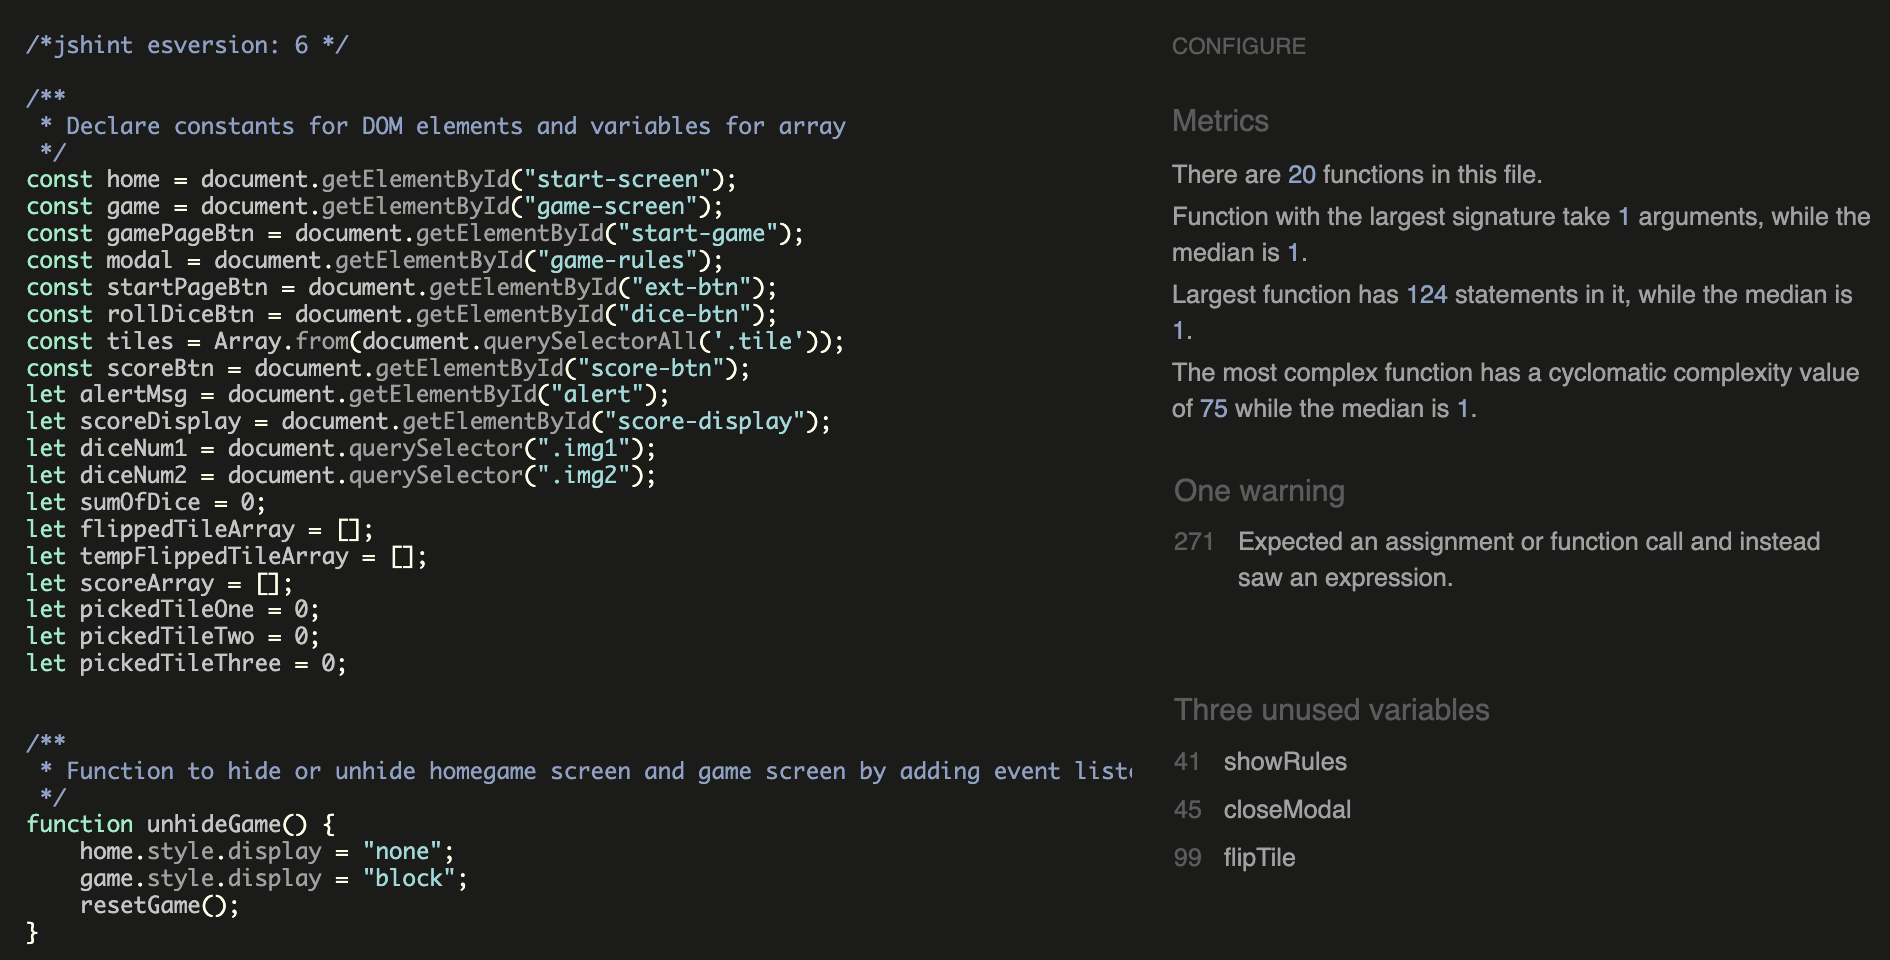
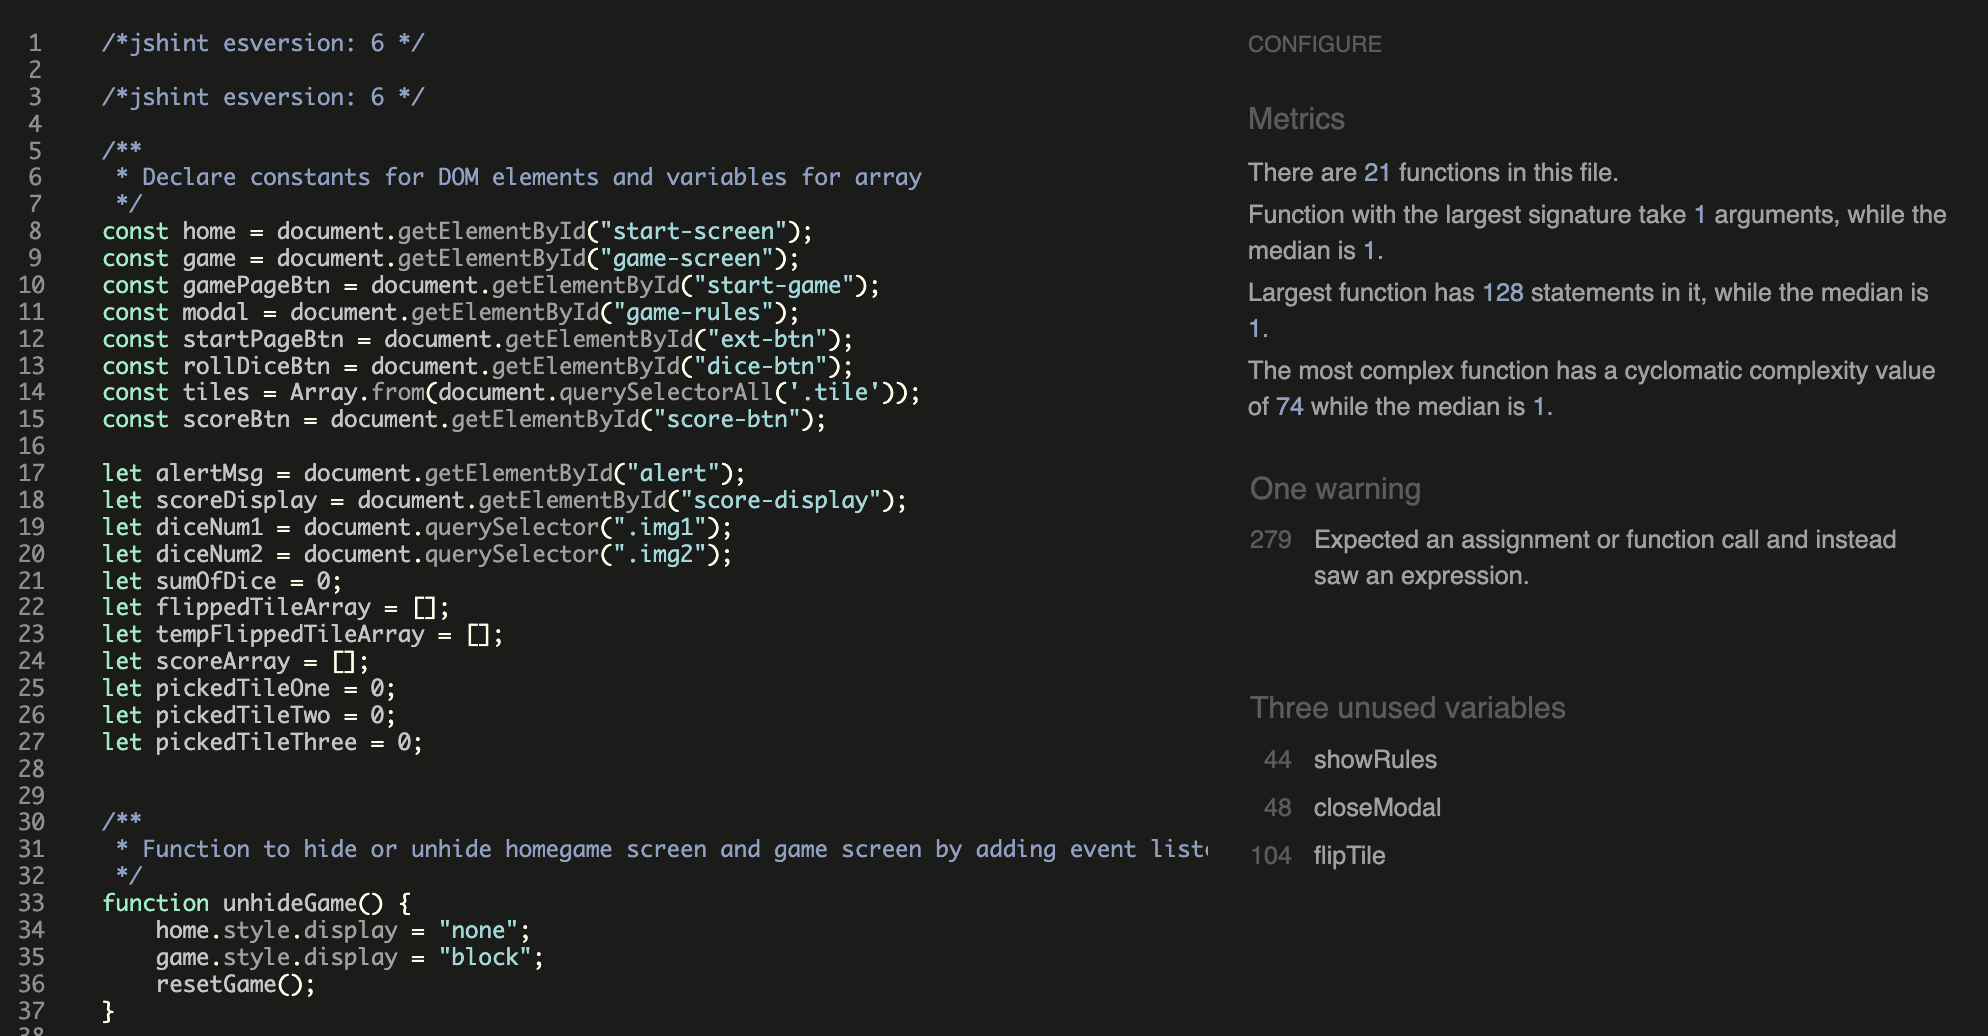
Update jshint validation result image

diff --git a/assets/js/script.js b/assets/js/script.js
@@ -1,5 +1,7 @@
 /*jshint esversion: 6 */
 
+/*jshint esversion: 6 */
+
 /**
  * Declare constants for DOM elements and variables for array
  */
@@ -11,6 +13,7 @@ const startPageBtn = document.getElementById("ext-btn");
 const rollDiceBtn = document.getElementById("dice-btn");
 const tiles = Array.from(document.querySelectorAll('.tile'));
 const scoreBtn = document.getElementById("score-btn");
+
 let alertMsg = document.getElementById("alert");
 let scoreDisplay = document.getElementById("score-display");
 let diceNum1 = document.querySelector(".img1");
@@ -84,6 +87,8 @@ function rollTheDice() {
 
         sumOfDice = randomNumber1 + randomNumber2;
 
+        toggleButtons(false);
+
         setAlertMessage('Now select a tile!');
         
         return sumOfDice;
@@ -99,26 +104,24 @@ function rollTheDice() {
 function flipTile(event) {
     let chosenTileValue = event;
     
-    if (sumOfDice == 0) {
-        chosenTileValue = 0;
-        return setAlertMessage("Please roll the dice!");
-    } else if (chosenTileValue > sumOfDice && tempFlippedTileArray.length === 0 && flippedTileArray.length > 7) {  
+    if (chosenTileValue > sumOfDice && tempFlippedTileArray.length === 0 && flippedTileArray.length > 7) {  
         calculateScore();
         tiles.forEach(tile => {
             tile.removeAttribute("onclick");
         });
+        toggleButtons(true);
         return setAlertMessage("Game Over!");
     } else if (chosenTileValue > sumOfDice && tempFlippedTileArray.length === 0) {  
         return setAlertMessage("Wrong flip!");
     } else if (chosenTileValue < sumOfDice && tempFlippedTileArray.length === 0 && flippedTileArray.length > 7) {
         pickedTileOne = tempFlippedTileArray[0];
-        //document.getElementById('tile' + event).style.backgroundColor = "brown";
-        //document.getElementById('tile' + event).style.color = "cornsilk";
-        setTileSelected();
+        document.getElementById('tile' + event).style.backgroundColor = "brown";
+        document.getElementById('tile' + event).style.color = "cornsilk";
         tiles.forEach(tile => {
             tile.removeAttribute("onclick");
         });
         calculateScore();
+        toggleButtons(true);
         return setAlertMessage("Game Over!");
     } else if (chosenTileValue < sumOfDice && tempFlippedTileArray.length === 0) {
         flippedTileArray.push(chosenTileValue); 
@@ -133,8 +136,8 @@ function flipTile(event) {
         scoreArray.push(sumOfDice);
         document.getElementById('tile' + event).style.visibility = "hidden";
         pickedTileOne = 0;
-        sumOfDice = 0;
         rollDiceBtn.addEventListener('click', rollTheDice, { once: true });
+        toggleButtons(true);
         return setAlertMessage("Great job!");
     } else if (chosenTileValue == sumOfDice && tempFlippedTileArray.length === 0 && flippedTileArray.length === 8)  {
         flippedTileArray.push(chosenTileValue);
@@ -142,7 +145,6 @@ function flipTile(event) {
         scoreArray.push(sumOfDice);
         document.getElementById('tile' + event).style.visibility = "hidden";
         pickedTileOne = 0;
-        sumOfDice = 0;
         rollDiceBtn.addEventListener('click', rollTheDice, { once: true });
         return setAlertMessage("Congratulation! You just shut the box!");
     } else if ((chosenTileValue + pickedTileOne) > sumOfDice && flippedTileArray.length > 4) {  
@@ -150,6 +152,7 @@ function flipTile(event) {
             tile.removeAttribute("onclick");
         });
         calculateScore();
+        toggleButtons(true);
         return setAlertMessage("Game Over!");
     } else if ((chosenTileValue + pickedTileOne) > sumOfDice) {  
         return setAlertMessage("Wrong flip!");
@@ -158,6 +161,7 @@ function flipTile(event) {
             tile.removeAttribute("onclick");
         });
         calculateScore();
+        toggleButtons(true);
         return setAlertMessage("Game Over!");
     } else if ((chosenTileValue + pickedTileOne) < sumOfDice && tempFlippedTileArray.length === 1 && chosenTileValue !== pickedTileOne) {  
         flippedTileArray.push(chosenTileValue);
@@ -173,8 +177,8 @@ function flipTile(event) {
         document.getElementById('tile' + event).style.visibility = "hidden";
         document.getElementById('tile' + pickedTileOne).style.visibility = "hidden";
         pickedTileOne = 0;
-        sumOfDice = 0;
         rollDiceBtn.addEventListener('click', rollTheDice, { once: true });
+        toggleButtons(true);
         return setAlertMessage("Great job!");
     } else if ((chosenTileValue + pickedTileOne) == sumOfDice && chosenTileValue !== pickedTileOne && flippedTileArray.length === 8) {
         flippedTileArray.push(chosenTileValue);
@@ -183,7 +187,6 @@ function flipTile(event) {
         document.getElementById('tile' + event).style.visibility = "hidden";
         document.getElementById('tile' + pickedTileOne).style.visibility = "hidden";
         pickedTileOne = 0;
-        sumOfDice = 0;
         rollDiceBtn.addEventListener('click', rollTheDice, { once: true });
         return setAlertMessage("Congratulation! You just shut the box!");
     } else if ((chosenTileValue + pickedTileOne + pickedTileTwo) > sumOfDice && tempFlippedTileArray.length === 2 && chosenTileValue !== pickedTileOne && chosenTileValue !== pickedTileTwo) {  
@@ -203,6 +206,7 @@ function flipTile(event) {
             tile.removeAttribute("onclick");
         });
         calculateScore();
+        toggleButtons(true);
         return setAlertMessage("Game Over!");
     } else if ((chosenTileValue + pickedTileOne + pickedTileTwo) < sumOfDice && tempFlippedTileArray.length === 2 && chosenTileValue !== pickedTileOne && chosenTileValue !== pickedTileTwo) {  
         flippedTileArray.push(chosenTileValue);
@@ -236,6 +240,7 @@ function flipTile(event) {
             tile.removeAttribute("onclick");
         });
         calculateScore();
+        toggleButtons(true);
         return setAlertMessage('Game Over!');
     } else if ((chosenTileValue + pickedTileOne + pickedTileTwo + pickedTileThree) == sumOfDice && tempFlippedTileArray.length === 3 && chosenTileValue !== pickedTileOne && chosenTileValue !== pickedTileTwo && chosenTileValue !== pickedTileThree && flippedTileArray.length !== 8) {  
         flippedTileArray.push(chosenTileValue);
@@ -246,6 +251,7 @@ function flipTile(event) {
         document.getElementById('tile' + pickedTileTwo).style.visibility = "hidden";
         document.getElementById('tile' + pickedTileThree).style.visibility = "hidden";
         rollDiceBtn.addEventListener('click', rollTheDice, { once: true });
+        toggleButtons(true);
         return setAlertMessage('Great job!');
     } else if ((chosenTileValue + pickedTileOne + pickedTileTwo + pickedTileThree) == sumOfDice && tempFlippedTileArray.length === 3 && chosenTileValue !== pickedTileOne && chosenTileValue !== pickedTileTwo && chosenTileValue !== pickedTileThree && flippedTileArray.length === 8) {  
         flippedTileArray.push(chosenTileValue);
@@ -260,6 +266,7 @@ function flipTile(event) {
             tile.removeAttribute("onclick");
         });
         calculateScore();
+        toggleButtons(true);
         return setAlertMessage('Game Over!');
     }
 } 
@@ -270,6 +277,21 @@ function flipTile(event) {
 function setAlertMessage(message) {
     alertMsg.style.display = "block",
     alertMsg.innerHTML = message;
+}
+
+/**
+ * Function to disable tile buttons. 
+ */
+function toggleButtons(state) {
+    document.getElementById("tile1").disabled = state;
+    document.getElementById("tile2").disabled = state;
+    document.getElementById("tile3").disabled = state;
+    document.getElementById("tile4").disabled = state;
+    document.getElementById("tile5").disabled = state;
+    document.getElementById("tile6").disabled = state;
+    document.getElementById("tile7").disabled = state;
+    document.getElementById("tile8").disabled = state;
+    document.getElementById("tile9").disabled = state;
 }
 
 /**
@@ -284,6 +306,8 @@ function calculateScore() {
     let displayScore = 45 - sumOfChosenTile;
     scoreDisplay.style.display = "block"; 
     document.getElementById("score-number").innerText = displayScore;
+
+    toggleButtons(true);
 
     setAlertMessage('Game Over!');
 }
@@ -317,11 +341,12 @@ function resetGame() {
         pickedTileTwo = 0;
         pickedTileThree = 0;
 
+        toggleButtons(true);
+
         diceNum1.setAttribute("src","assets/image/game-page-image/dice6.png");
         diceNum2.setAttribute("src","assets/image/game-page-image/dice6.png");
 
-        alertMsg.style.display = 'none';
-        alertMsg.innerHTML = "";
+        setAlertMessage("Please roll the dice to begin");
 
         scoreDisplay.style.display = "none"; 
         document.getElementById("score-number").innerText = "";

diff --git a/README.md b/README.md
@@ -208,6 +208,21 @@ _ _ _
 * Family and friends were asked to review the application for a better understanding of the user experience.
 * Dev Tools was used to test how the site looks on various screen sizes and console log was used extensively to see which function was executed.
 
+| What was done | Working correctly? |
+|---------------------|:---------------------:|
+| Checking the HTML code on Validator HTML successful      | <span style="background-color: green; padding: 3px;">YES</span>        |
+| Checking the CSS code on Validator CSS successful      |<span style="background-color: green; padding: 3px;">YES</span>|
+| Checking the JavaScript code on JSHint successful      |<span style="background-color: green; padding: 3px;">YES</span>|
+| Checking Lighthouse for mobile device  successful      | <span style="background-color: green; padding: 3px;">YES</span>|
+| Checking Lighthouse for desktop device successful      | <span style="background-color: green; padding: 3px;">YES</span>|
+| I clicked on the "START GAME" and "HOW TO PLAY" buttons      | <span style="background-color: green; padding: 3px;">YES</span>|
+| I clicked on "EXIT GAME" and "RESET GAME" buttons       |<span style="background-color: green; padding: 3px;">YES</span>|
+| I clicked on ech tile before rolling th dice messag alert "Please roll the dice!"       |<span style="background-color: green; padding: 3px;">YES</span>|
+| I also checked that the "Start" and "New Game" buttons change color and are visually different after being pressed|<span style="background-color: green; padding: 3px;">YES</span>|
+| Checked whether the player's name, time and rating are displayed in the results table       |<span style="background-color: green; padding: 3px;">YES</span>|
+|I checked whether amethe player's rating changes depending on the time spent by the player on the game|<span style="background-color: green; padding: 3px;">YES</span>|
+
+
 ### Lighthouse Report
 
 #### Mobile analysis
